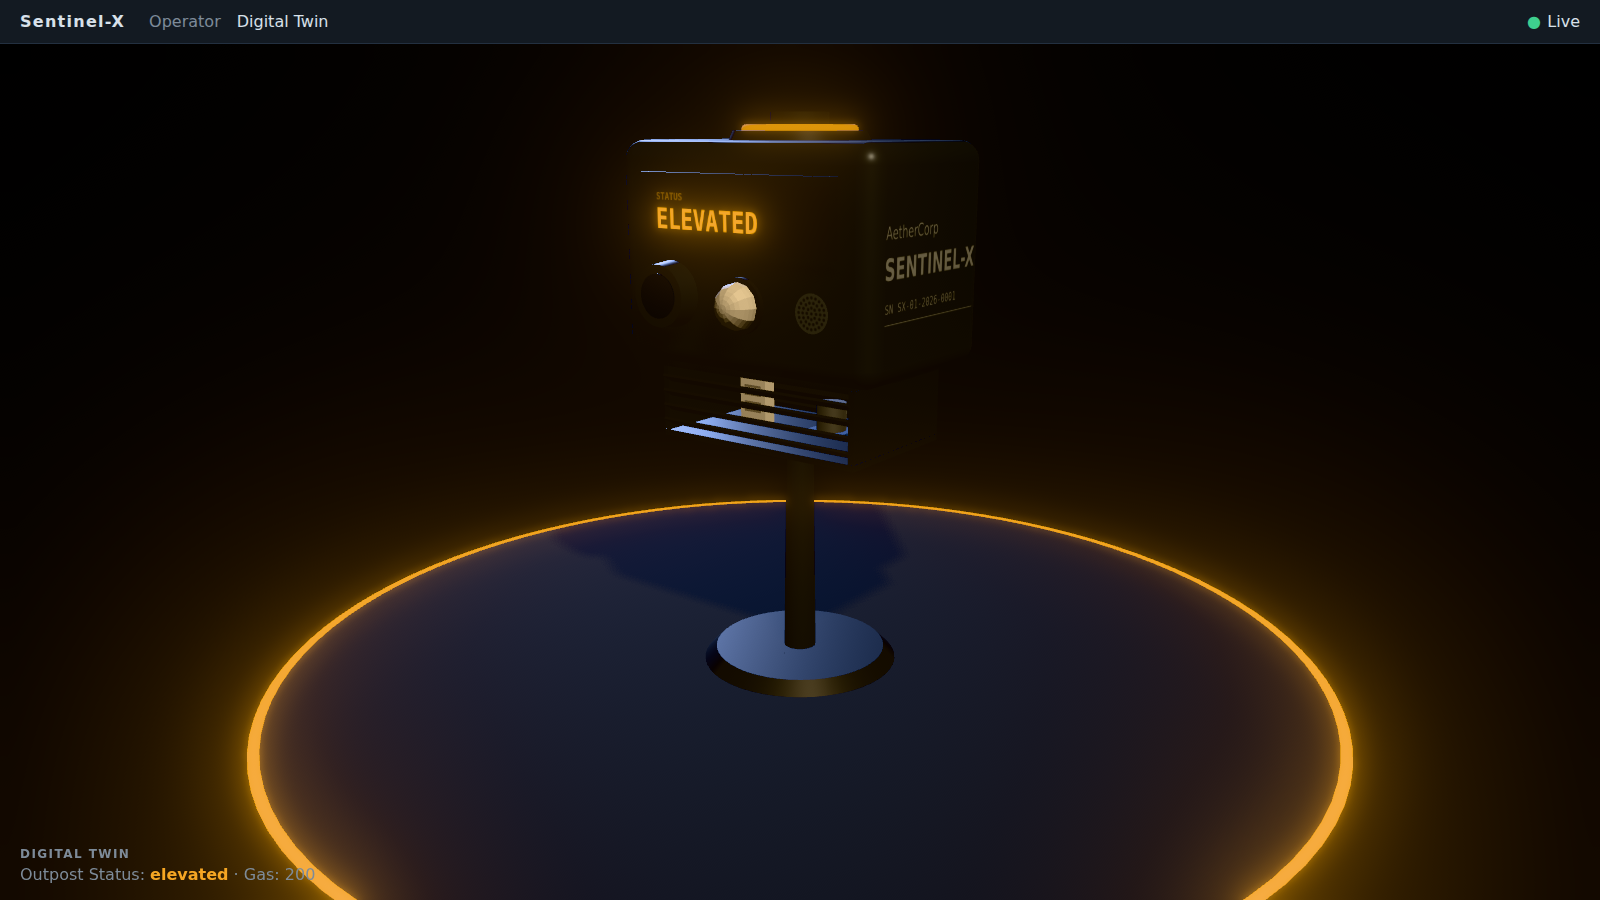
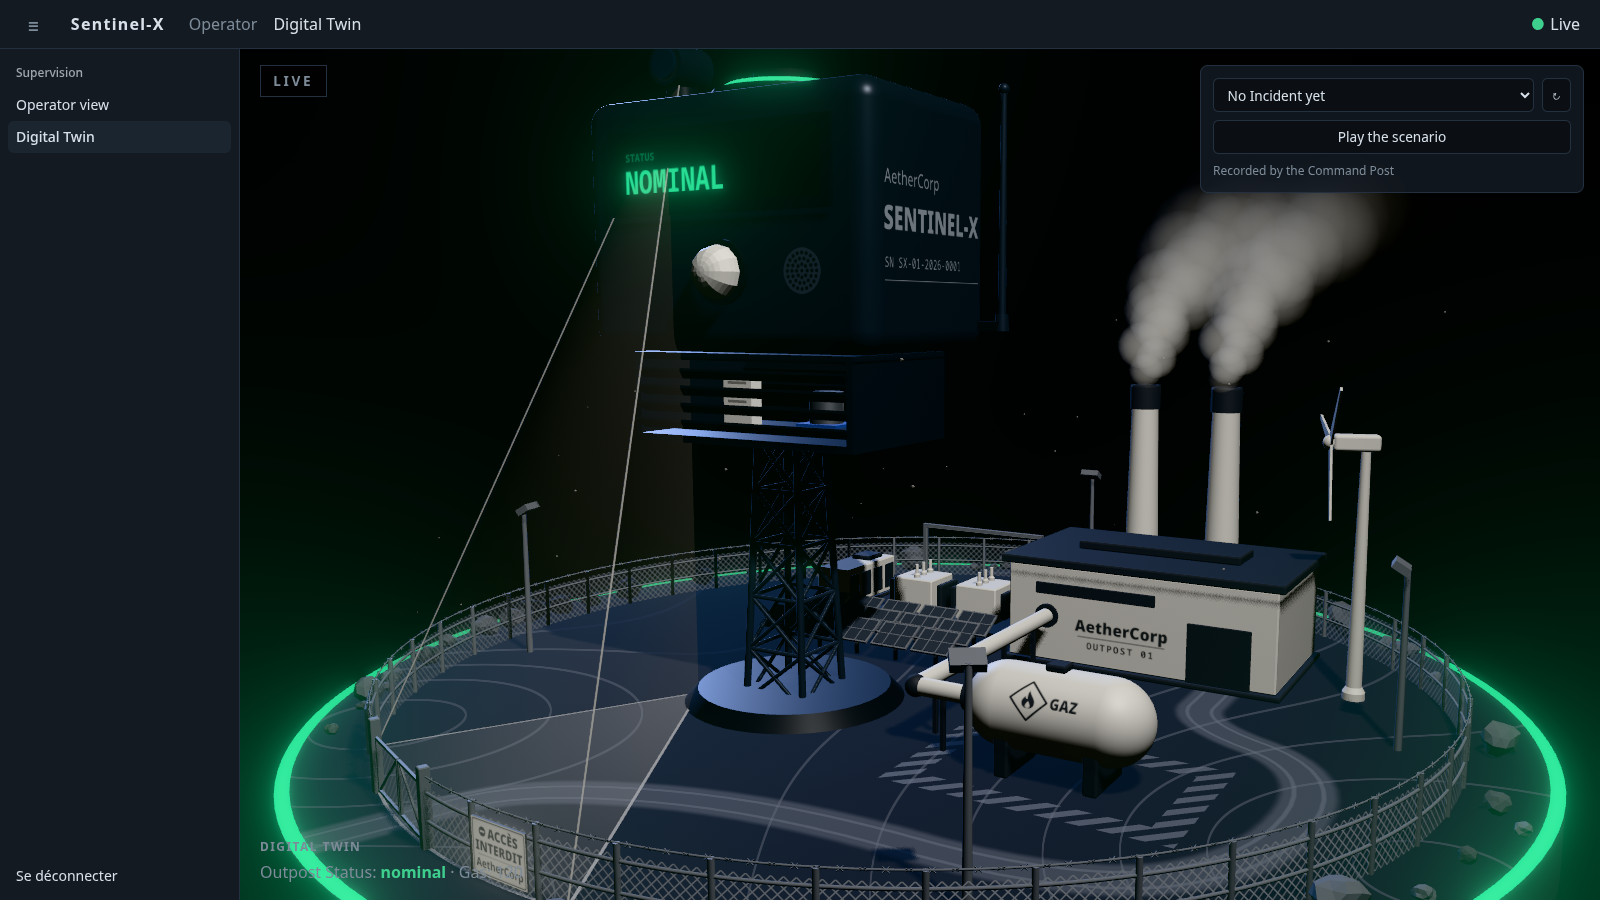
feat(dashboard): the Twin's Enclosure stands on a lattice mast: uprights, rails and cross braces on its foot, one shape whose shadow is drawn once (#105)

diff --git a/dashboard/src/features/twin/components/enclosure.tsx b/dashboard/src/features/twin/components/enclosure.tsx
@@ -1,7 +1,9 @@
 import { useFrame } from '@react-three/fiber'
 import { type ReactNode, useEffect, useMemo, useRef, useState } from 'react'
 import {
+  type BufferGeometry,
   Color,
+  CylinderGeometry,
   type Group,
   MathUtils,
   type Mesh,
@@ -9,11 +11,13 @@ import {
   MeshStandardMaterial,
   PlaneGeometry,
   type PointLight,
+  Quaternion,
   ShaderMaterial,
   Vector2,
   Vector3,
 } from 'three'
 import { RoundedBoxGeometry } from 'three/addons/geometries/RoundedBoxGeometry.js'
+import { mergeGeometries } from 'three/addons/utils/BufferGeometryUtils.js'
 import { useColorFade, useFade } from '../hooks/use-fade'
 import { usePan } from '../hooks/use-pan'
 import { useSweep } from '../hooks/use-sweep'
@@ -38,6 +42,53 @@ const TOP = BODY.height / 2
 
 const ANODIZED = { color: '#232a33', metalness: 0.55, roughness: 0.38 } as const
 const TRIM = { color: '#14181d', metalness: 0.4, roughness: 0.5 } as const
+
+// The mast is a lattice pylon, square in plan: four uprights that lean in from `foot` to `top`, half its
+// width at either end, held every bay by a ring of rails and a cross of braces on each face.
+const LATTICE = { foot: 0.15, top: 0.1, bays: 5, upright: 0.016, brace: 0.009, sides: 6 } as const
+const UP = new Vector3(0, 1, 0)
+
+// A bar of the lattice, from one point to another.
+function bar(from: Vector3, to: Vector3, radius: number): BufferGeometry {
+  const along = to.clone().sub(from)
+  const length = along.length()
+
+  return new CylinderGeometry(radius, radius, length, LATTICE.sides)
+    .applyQuaternion(new Quaternion().setFromUnitVectors(UP, along.divideScalar(length)))
+    .translate((from.x + to.x) / 2, (from.y + to.y) / 2, (from.z + to.z) / 2)
+}
+
+// The whole lattice as one shape, from the ground up to the Probe compartment.
+function latticeMast(): BufferGeometry {
+  const { foot, top, bays, upright, brace } = LATTICE
+  // The four corners of the pylon at each level, the ground first.
+  const levels = Array.from({ length: bays + 1 }, (_, level) => {
+    const half = MathUtils.lerp(foot, top, level / bays)
+    const y = (MAST_HEIGHT * level) / bays
+    return [
+      new Vector3(half, y, half),
+      new Vector3(-half, y, half),
+      new Vector3(-half, y, -half),
+      new Vector3(half, y, -half),
+    ]
+  })
+  const corner = (level: number, at: number) => levels[level]?.[at % 4] ?? new Vector3()
+  const faces = [0, 1, 2, 3]
+  const bars = [
+    ...faces.map((at) => bar(corner(0, at), corner(bays, at), upright)),
+    ...levels.flatMap((_, level) => faces.map((at) => bar(corner(level, at), corner(level, at + 1), brace))),
+    ...levels.slice(1).flatMap((_, level) =>
+      faces.flatMap((at) => [
+        bar(corner(level, at), corner(level + 1, at + 1), brace),
+        bar(corner(level, at + 1), corner(level + 1, at), brace),
+      ]),
+    ),
+  ]
+  const all = mergeGeometries(bars)
+  for (const one of bars) one.dispose()
+
+  return all
+}
 
 // The LCD band: the Status in white on black, tinted by an unlit material whose color fades to the
 // Status's, with the light of the scene. The text switches like a real LCD's; its color fades.
@@ -481,6 +532,8 @@ export function Enclosure({ color, glow, lcd, ring, alarm, pulses, drift, presen
   const shown = useRef(glow)
   const shell = useMemo(() => new RoundedBoxGeometry(BODY.width, BODY.height, BODY.depth, 4, 0.09), [])
   useEffect(() => () => shell.dispose(), [shell])
+  const mast = useMemo(latticeMast, [])
+  useEffect(() => () => mast.dispose(), [mast])
 
   useFrame((_, delta) => {
     shown.current = MathUtils.damp(shown.current, glow, EASE, delta)
@@ -493,13 +546,12 @@ export function Enclosure({ color, glow, lcd, ring, alarm, pulses, drift, presen
 
   return (
     <group scale={SCALE}>
-      {/* Foot and mast */}
+      {/* Foot and mast: the lattice stands still, so its shadow is drawn once with the others. */}
       <mesh position={[0, 0.03, 0]} castShadow receiveShadow>
         <cylinderGeometry args={[0.42, ENCLOSURE_SHAPE.foot, 0.06, 48]} />
         <meshStandardMaterial {...TRIM} />
       </mesh>
-      <mesh position={[0, MAST_HEIGHT / 2, 0]} castShadow>
-        <cylinderGeometry args={[0.065, 0.08, MAST_HEIGHT, 24]} />
+      <mesh geometry={mast} castShadow receiveShadow>
         <meshStandardMaterial color="#3a424c" metalness={0.7} roughness={0.35} />
       </mesh>
 

diff --git a/dashboard/README.md b/dashboard/README.md
@@ -437,11 +437,12 @@ const history = useLiveFeed((state) => state.history)
 - **Camera** — it goes around the Outpost in 80 s. The Operator can turn it and zoom with the mouse, between bounds that keep the Outpost in frame (no panning, never under the ground); 3 s after they let go, the orbit picks up speed again. `autoOrbitSpeed` is that rule, as a pure function. It turns to an Alert as it is raised (#97, [the camera turns to the Alert](#digital-twin--featurestwin)).
 - **Resolution** — `pixelRatio` caps the rendering at a pixel ratio of 2 and at 3 million pixels (`MAX_PIXELS`), whatever the screen. That budget was measured on an Iris Xe, where the Twin holds 60 images per second up to about 3.4 million pixels: raise it on a stronger GPU.
 
-**The Enclosure** (#31) — the Sentinel-X product itself, on a mast, at an exaggerated scale (`ENCLOSURE_SHAPE.scale`) to stay readable from the back of the room. Built in code from bevelled volumes (`RoundedBoxGeometry`) and canvas-drawn textures, no external model.
+**The Enclosure** (#31) — the Sentinel-X product itself, on a lattice mast, at an exaggerated scale (`ENCLOSURE_SHAPE.scale`) to stay readable from the back of the room. Built in code from bevelled volumes (`RoundedBoxGeometry`) and canvas-drawn textures, no external model.
 
 ![The Enclosure, nominal](../docs/twin/enclosure-nominal.png)
 
-- **Front:** the LCD band, then the PIR dome and the mic grille. **Under the body:** the ventilated Probe compartment, louvres front and back, the DHT22 and the MQ-2 visible between them. **On top:** the buzzer and the LED ring around it, and beside them the camera, on its servo: a pedestal and a housing with its lens, which turns to whom it follows (`pan`, eased like the field's) and casts no shadow, as the shadows are drawn once. **Right side, behind the engraving:** the antenna, its tip just over the roof (#103, [the link](#digital-twin--featurestwin)). The picture above is from before: the lens was on the front, and there was no antenna. **Right side:** the engraving, *AetherCorp / SENTINEL-X / serial* (`ENGRAVING`).
+- **Front:** the LCD band, then the PIR dome and the mic grille. **Under the body:** the ventilated Probe compartment, louvres front and back, the DHT22 and the MQ-2 visible between them. **On top:** the buzzer and the LED ring around it, and beside them the camera, on its servo: a pedestal and a housing with its lens, which turns to whom it follows (`pan`, eased like the field's) and casts no shadow, as the shadows are drawn once. **Right side, behind the engraving:** the antenna, its tip just over the roof (#103, [the link](#digital-twin--featurestwin)). **Right side:** the engraving, *AetherCorp / SENTINEL-X / serial* (`ENGRAVING`).
+- **The mast** (#105) — a lattice pylon on the foot, as the brief's illustration shows the box: four uprights that lean in toward the top, and on each face a ring of rails and a cross of braces every bay (`LATTICE`, `latticeMast()` in `components/enclosure.tsx`). It is one shape, in the neutral steel the solid mast had, and stands still: its shadow is drawn once with the others. It is as tall as the mast it replaces, so the body, the lens and all the site plan anchors on it are where they were.
 - **Parts to drive:** every Probe and actuator is a named object — `scene.getObjectByName(ENCLOSURE_PARTS.mq2)` — for the later slices. The predictive pulse (#13) drives `dht22` and `mq2` from `scene.enclosure.pulses`, the presence (#36) blinks `pir`, the Alarm (#34) drives `ledRing` and `buzzer` from `scene.enclosure.alarm`, the link (#103) lights the `antenna`.
 - **LCD:** shows `scene.enclosure.lcd.text` (`LCD_TEXT`: `NOMINAL`, `ELEVATED`, `CRITICAL`) in the Status's color. The text switches like a real LCD's, the color fades. Unlit, so it glows.
 - **LED ring:** breathes in the Status's color, one breath every `BREATH_PERIOD` (4 s), never below `BREATH_FLOOR` — `breath(t)` is pure and tested. The kit has no LED any more (`docs/ARCHITECTURE.md`): on the Twin, the ring is the Status light, until the Alarm makes it blink (#34, below).

diff --git a/docs/DIGITAL-TWIN.md b/docs/DIGITAL-TWIN.md
@@ -69,5 +69,6 @@ Built in #102: see [`../dashboard/README.md`](../dashboard/README.md#digital-twi
 - Low-poly stylized box model (exportable from the Fusion360 CAD used for the physical box) keeps it performant and on-brand.
 - Everything reacts to the **same event stream** the real box emits — no fake data path in the final demo.
 - The brief asks for a link « sans fil et ultra-sécurisée »: the Enclosure carries an antenna on its side, which beats with the telemetry and says, truthfully, whether the feed the Twin shows is encrypted. The antenna stands still, so its shadow is drawn once with the others; its impulses are light added over the frame and cast none. Built in #103: see [`../dashboard/README.md`](../dashboard/README.md#digital-twin--featurestwin).
+- The brief's illustration shows the box on a lattice pylon: the Enclosure stands on a lattice mast, uprights and cross braces on its foot, in neutral steel. It is one shape that stands still, so its shadow is drawn once with the others, and the lens is where it was. Built in #105: see [`../dashboard/README.md`](../dashboard/README.md#digital-twin--featurestwin).
 - The floodlights are masts just inside the fence, dark while all is calm. Their light is simulated, a lamp that emits and a pool added over the ground: no light is added to the scene and no shadow is cast, so they cost the frame rate nothing. Built in #100: see [`../dashboard/README.md`](../dashboard/README.md#digital-twin--featurestwin).
 - The site reads as the critical infrastructure the brief describes: a chain-link fence under a strand of barbed wire, its gate closed between two pillars. All of it is openwork, so the camera's field, the intruder and the presence's sweep read through it, and its materials stay neutral: color is kept for the `Status` and the signals. Built in #98: see [`../dashboard/README.md`](../dashboard/README.md#digital-twin--featurestwin).
